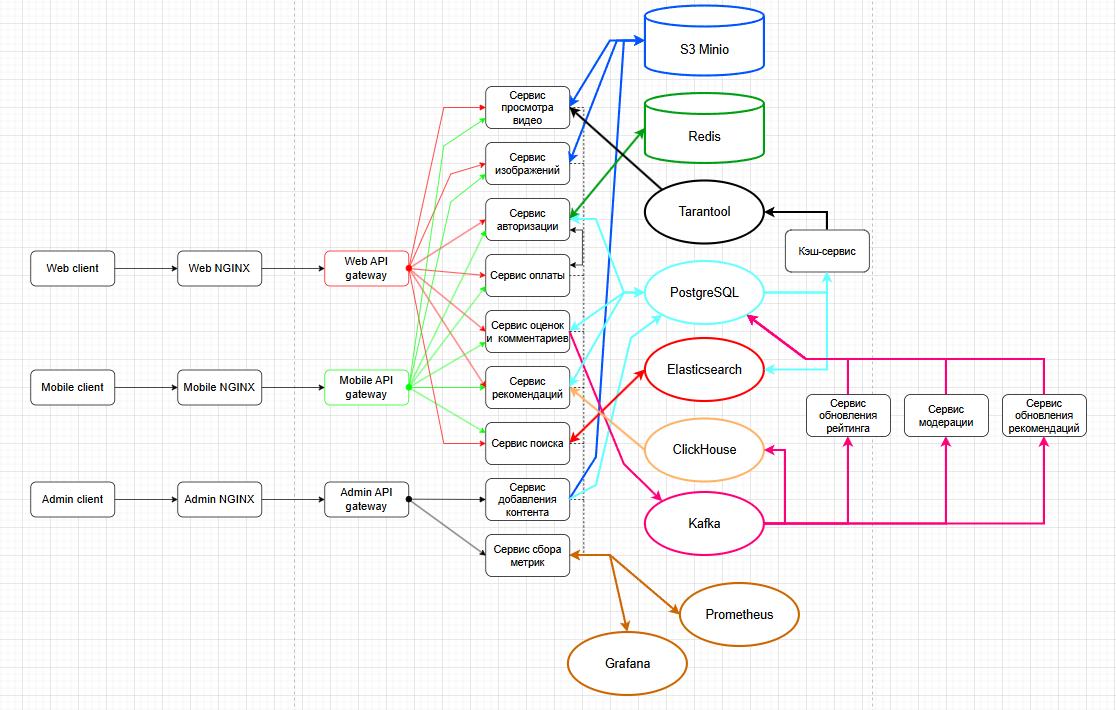
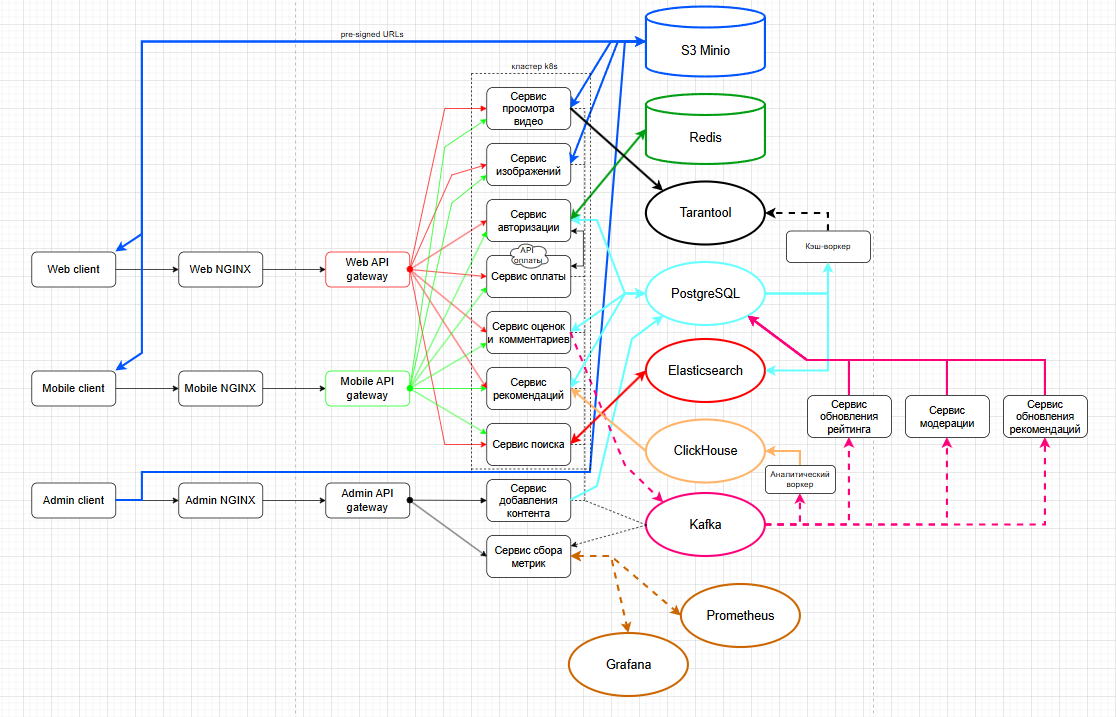
fix: task 10 and feat: task 9

diff --git a/README.md b/README.md
@@ -817,6 +817,16 @@ ORDER BY (user_id);
 
 # 9. Обеспечение надежности
 
+## Обеспечение надежности
+
+|                            | **Что используется**                                                                                                                                                                                                                                                                                            |
+| -------------------------- | --------------------------------------------------------------------------------------------------------------------------------------------------------------------------------------------------------------------------------------------------------------------------------------------------------------- |
+| **Базы данных**            | Для PostgreSQL, ClickHouse и Elasticsearch реализованы шардирование и репликация, а также настраиваются регулярные бэкапы для защиты от потери данных.                                                                                                                                                          |
+| **Виртуальные компоненты** | - **Kubernetes** следит за состоянием подов, перезапуская их при сбоях. <br>- **Nginx** развернут с несколькими репликами, что позволяет продолжить работу даже при отказе одного из инстансов. <br>- **etcd** сохраняет текущее состояние и конфигурации кластера, что ускоряет восстановление в случае сбоев. |
+| **Физические компоненты**  | - **Серверы** распределяются по ролям и работают в пределах Kubernetes-кластера, что обеспечивает изоляцию и устойчивость к сбоям. <br>- **Диски** работают на RAID 5, обеспечивая восстановление данных при выходе из строя одного накопителя.                                                                 |
+| **Мониторинг метрик**      | Метрики передаются через Kafka и собираются системой Prometheus, а **Grafana** используется для визуализации и настройки алертов. Это позволяет оперативно выявлять неполадки и контролировать ключевые показатели производительности.                                                                          |
+| **Паттерны**               | Используется паттерн **Circuit Breaker**: если один из сервисов (например, рекомендаций) временно недоступен, API Gateway перестаёт направлять к нему запросы, чтобы избежать перегрузки системы и каскадных отказов. Реализация [Circuit Breaker на Go](https://github.com/sony/gobreaker).                    |
+
 # 10. Схема проекта
 
 ![Схема проекта](assets/all-project.png)
@@ -852,6 +862,25 @@ ORDER BY (user_id);
 - **Сервис добавления контента**: получает данные от администратора и добавляет информацию в PostgreSQL, изображения — в S3 Minio.
 - **Сервис модерации**: получает новые объекты через Kafka, принимает решение об их публикации и передаёт в основную базу.
 - **Сервис обновления рекомендаций**: пересчитывает рекомендации на основе актуальных данных и отправляет результаты в PostgreSQL или кеш.
+
+## Потоки данных: сервис → хранилище → зачем
+
+| Сервис                             | Куда ходит                            | Зачем                                                                                                                                   |
+| ---------------------------------- | ------------------------------------- | --------------------------------------------------------------------------------------------------------------------------------------- |
+| **Сервис авторизации**             | PostgreSQL, Redis                     | Данные пользователя (PostgreSQL), проверка сессий (Redis)                                                                               |
+| **Сервис оплаты подписки**         | API оплаты, Сервис авторизации        | Уведомление сервиса авторизации о продлении подписки                                                                                    |
+| **Сервис оценок и комментариев**   | PostgreSQL, Kafka                     | Получение и добавление оценок и комментариев (PostgreSQL), отправка новых данных (Kafka)                                                |
+| **Сервис просмотра видео**         | S3 Minio (pre‑signed URLs), Tarantool | Генерация временных ссылок для получения видео (S3 Minio), быстрый доступ к таблицу Film_Quality(Tarantool)                             |
+| **Сервис отображения изображений** | S3 Minio                              | Получение изображений (постеры, аватары, фото актёров)                                                                                  |
+| **Сервис сбора метрик**            | Prometheus, Grafana                   | Экспонирование метрик для мониторинга (Prometheus), визуализация графиков (Grafana)                                                     |
+| **Сервис рекомендаций**            | PostgreSQL, ClickHouse                | Получение рекомендаций (PostgreSQL), сбор статистики (ClickHouse)                                                                       |
+| **Сервис поиска**                  | Elasticsearch                         | Быстрый полнотекстовый поиск (Elasticsearch)                                                                                            |
+| **Сервис добавления контента**     | PostgreSQL                            | Добавление новых данных в БД (PostgreSQL)                                                                                               |
+| **Сервис обновления рейтинга**     | PostgreSQL, Kafka                     | Сбор оценок за день (Kafka), обновление рейтинга фильма (PostgreSQL)                                                                    |
+| **Сервис модерации**               | PostgreSQL, Kafka                     | Сбор комментариев за день (Kafka), фильтрация/модерация контента (PostgreSQL)                                                           |
+| **Сервис обновления рекомендаций** | PostgreSQL, Kafka                     | Сбор оценок за день, пересчет векторов и итогового веса фильма для рекомендаций (Kafka), обновление векторов, рекомендаций (PostgreSQL) |
+| **Кэш-воркер**                     | PostgreSQL, Tarantool                 | Воркер для обновления рейтингов, топов и других готовых коллекций                                                                       |
+| **Аналитический воркер**           | Kafka, ClickHouse                     | Воркер для отсеивания шума, предварительные расчеты                                                                                     |
 
 ## Балансировка данных
 
